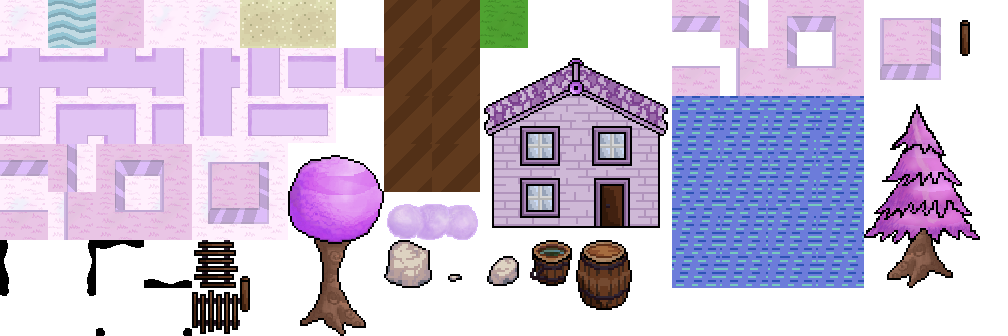
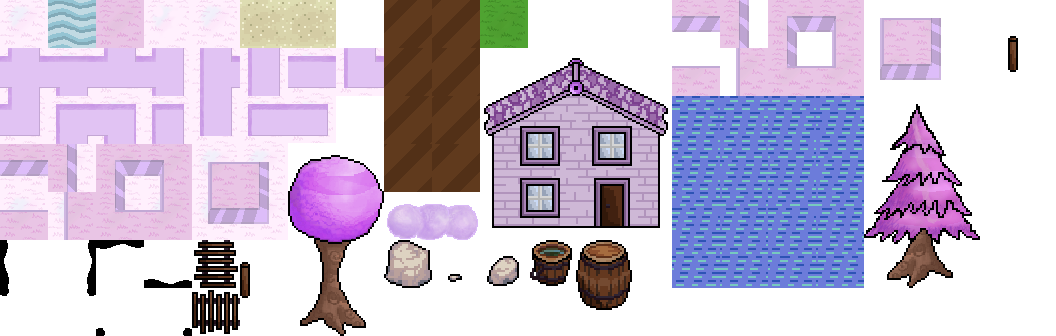
Updated spritesheet

diff --git a/src/terrain/tile_image_loader.py b/src/terrain/tile_image_loader.py
@@ -135,8 +135,8 @@ walkable_water = (
 boardwalk_1 = (192, 240, 48, 48)
 boardwalk_2 = (192, 288, 48, 48)
 spruce_tree = (864, 96, 116, 192)
-boardwalk_poles_1 = (240, 240, 48, 96)
-boardwalk_poles_2 = (960, 0, 48, 96)
+boardwalk_poles_1 = (960, 0, 96, 96)
+boardwalk_poles_2 = (240, 240, 48, 96)
 
 
 # Indexing this array by a tiles' ID will
